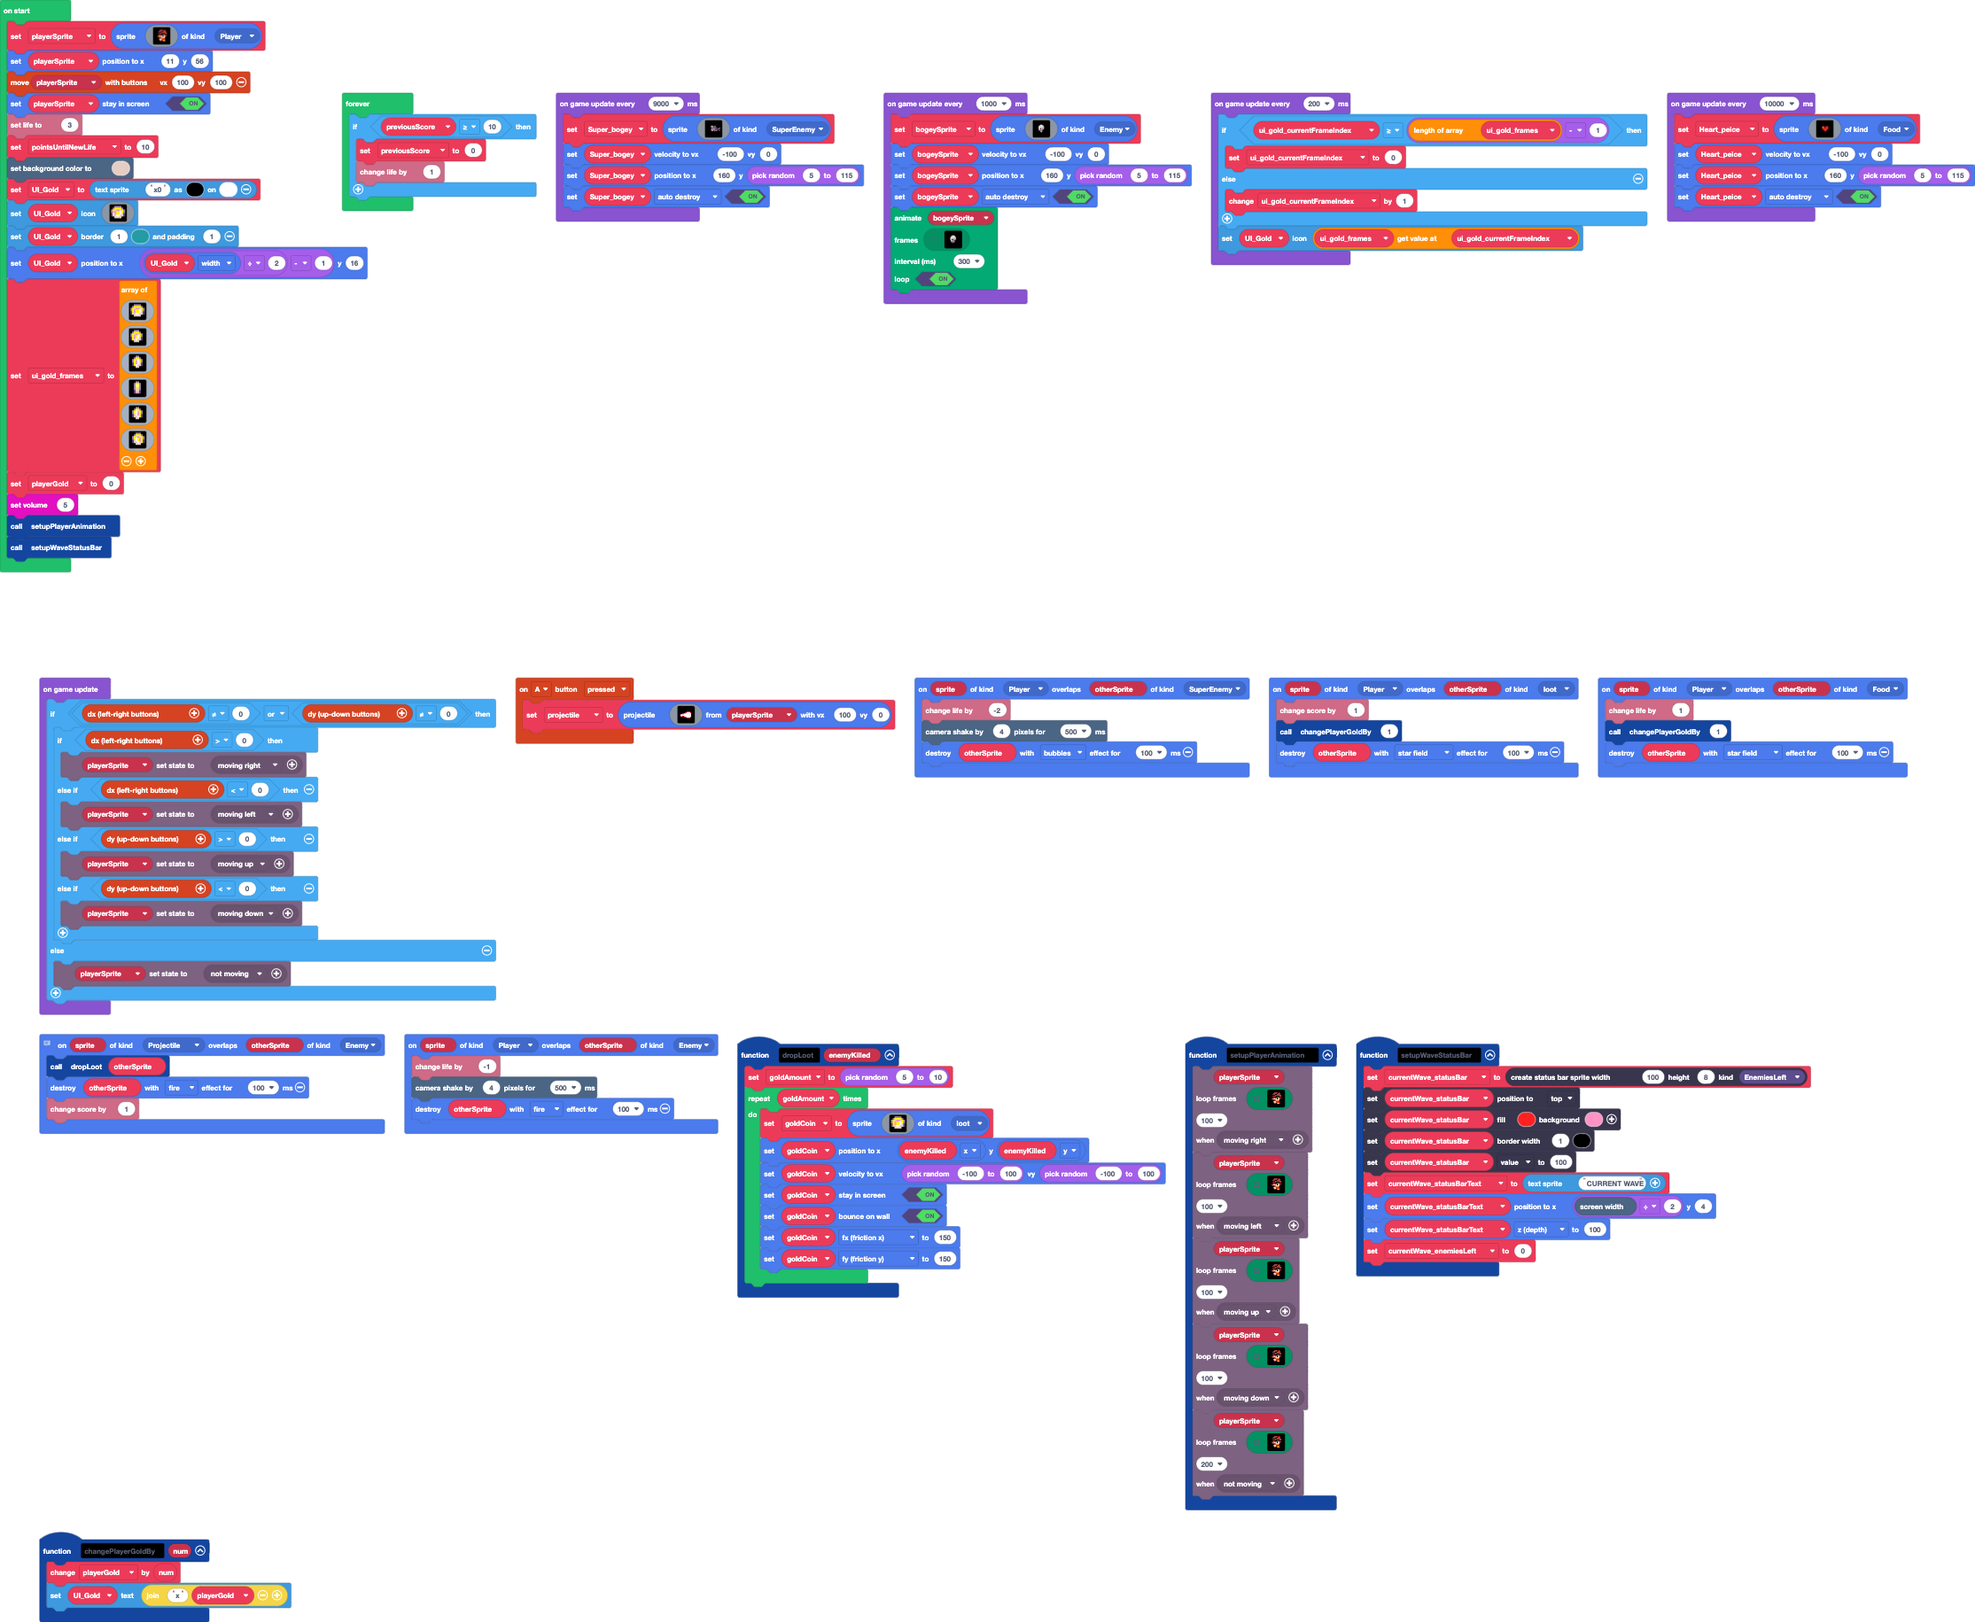
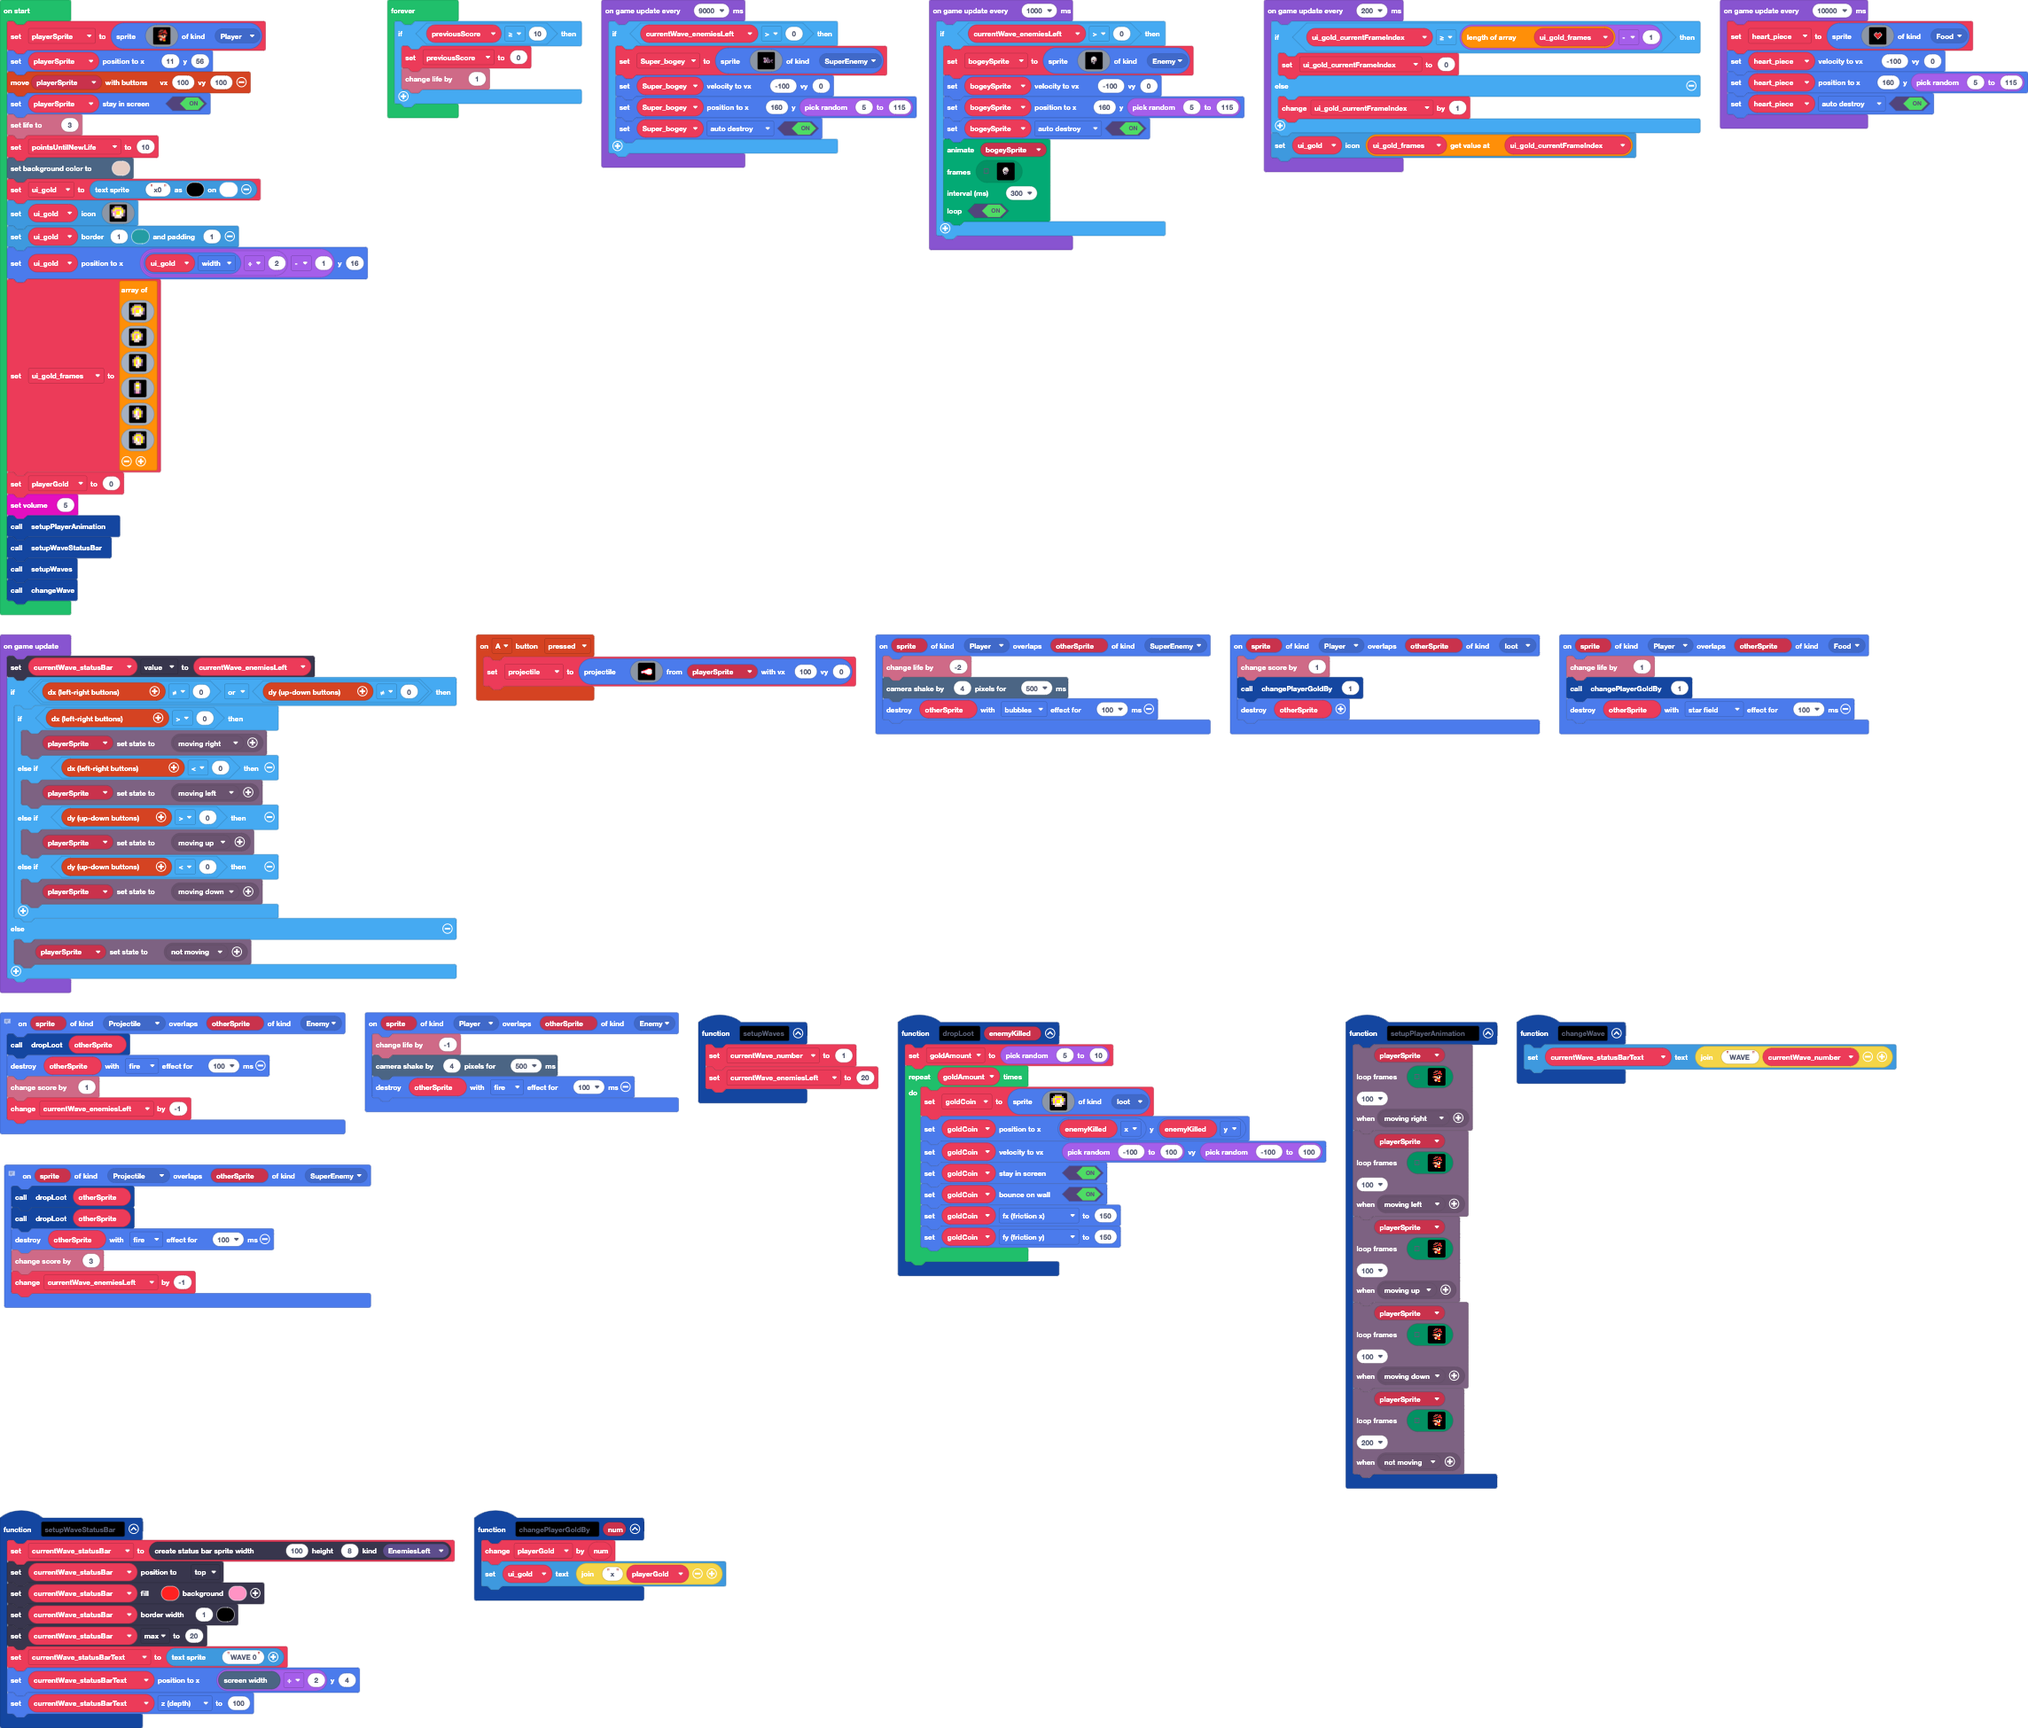
Status bar hooked up correctly

diff --git a/main.ts b/main.ts
@@ -332,16 +332,19 @@ function setupPlayerAnimation () {
     characterAnimations.rule(Predicate.NotMoving)
     )
 }
+function setupWaves () {
+    currentWave_number = 1
+    currentWave_enemiesLeft = 20
+}
 function setupWaveStatusBar () {
     currentWave_statusBar = statusbars.create(100, 8, StatusBarKind.EnemiesLeft)
     currentWave_statusBar.positionDirection(CollisionDirection.Top)
     currentWave_statusBar.setColor(2, 3)
     currentWave_statusBar.setBarBorder(1, 15)
-    currentWave_statusBar.value = 100
-    currentWave_statusBarText = textsprite.create("CURRENT WAVE")
+    currentWave_statusBar.max = 20
+    currentWave_statusBarText = textsprite.create("WAVE 0")
     currentWave_statusBarText.setPosition(scene.screenWidth() / 2, 4)
     currentWave_statusBarText.z = 100
-    currentWave_enemiesLeft = 0
 }
 controller.A.onEvent(ControllerButtonEvent.Pressed, function () {
     projectile = sprites.createProjectileFromSprite(img`
@@ -362,6 +365,14 @@ controller.A.onEvent(ControllerButtonEvent.Pressed, function () {
         . . . . . . . . . . . . . . . . 
         . . . . . . . . . . . . . . . . 
         `, playerSprite, 100, 0)
+})
+// If the player's missile hits an enemy, destroy it, drop loot, add 1 to score
+sprites.onOverlap(SpriteKind.Projectile, SpriteKind.SuperEnemy, function (sprite, otherSprite) {
+    dropLoot(otherSprite)
+    dropLoot(otherSprite)
+    otherSprite.destroy(effects.fire, 100)
+    info.changeScoreBy(3)
+    currentWave_enemiesLeft += -1
 })
 sprites.onOverlap(SpriteKind.Player, SpriteKind.SuperEnemy, function (sprite, otherSprite) {
     info.changeLifeBy(-2)
@@ -392,8 +403,11 @@ function dropLoot (enemyKilled: Sprite) {
 sprites.onOverlap(SpriteKind.Player, SpriteKind.loot, function (sprite, otherSprite) {
     info.changeScoreBy(1)
     changePlayerGoldBy(1)
-    otherSprite.destroy(effects.starField, 100)
+    otherSprite.destroy()
 })
+function changeWave () {
+    currentWave_statusBarText.setText("WAVE " + currentWave_number)
+}
 sprites.onOverlap(SpriteKind.Player, SpriteKind.Food, function (sprite, otherSprite) {
     info.changeLifeBy(1)
     changePlayerGoldBy(1)
@@ -401,20 +415,21 @@ sprites.onOverlap(SpriteKind.Player, SpriteKind.Food, function (sprite, otherSpr
 })
 function changePlayerGoldBy (num: number) {
     playerGold += num
-    UI_Gold.setText("x" + playerGold)
+    ui_gold.setText("x" + playerGold)
 }
 // If the player's missile hits an enemy, destroy it, drop loot, add 1 to score
 sprites.onOverlap(SpriteKind.Projectile, SpriteKind.Enemy, function (sprite, otherSprite) {
     dropLoot(otherSprite)
     otherSprite.destroy(effects.fire, 100)
     info.changeScoreBy(1)
+    currentWave_enemiesLeft += -1
 })
 sprites.onOverlap(SpriteKind.Player, SpriteKind.Enemy, function (sprite, otherSprite) {
     info.changeLifeBy(-1)
     scene.cameraShake(4, 500)
     otherSprite.destroy(effects.fire, 100)
 })
-let Heart_peice: Sprite = null
+let heart_piece: Sprite = null
 let ui_gold_currentFrameIndex = 0
 let previousScore = 0
 let bogeySprite: Sprite = null
@@ -422,11 +437,12 @@ let Super_bogey: Sprite = null
 let goldCoin: Sprite = null
 let goldAmount = 0
 let projectile: Sprite = null
-let currentWave_enemiesLeft = 0
 let currentWave_statusBarText: TextSprite = null
 let currentWave_statusBar: StatusBarSprite = null
+let currentWave_enemiesLeft = 0
+let currentWave_number = 0
 let playerGold = 0
-let UI_Gold: TextSprite = null
+let ui_gold: TextSprite = null
 let playerSprite: Sprite = null
 playerSprite = sprites.create(assets.image`heroWalkSideRight1`, SpriteKind.Player)
 playerSprite.setPosition(11, 56)
@@ -435,8 +451,8 @@ playerSprite.setStayInScreen(true)
 info.setLife(3)
 let pointsUntilNewLife = 10
 scene.setBackgroundColor(13)
-UI_Gold = textsprite.create("x0", 1, 15)
-UI_Gold.setIcon(img`
+ui_gold = textsprite.create("x0", 1, 15)
+ui_gold.setIcon(img`
     . . b b b b . . 
     . b 5 5 5 5 b . 
     b 5 d 3 3 d 5 b 
@@ -446,8 +462,8 @@ UI_Gold.setIcon(img`
     . f d d d d f . 
     . . f f f f . . 
     `)
-UI_Gold.setBorder(1, 6, 1)
-UI_Gold.setPosition(UI_Gold.width / 2 - 1, 16)
+ui_gold.setBorder(1, 6, 1)
+ui_gold.setPosition(ui_gold.width / 2 - 1, 16)
 let ui_gold_frames = [
 img`
     . . b b b b . . 
@@ -514,7 +530,10 @@ playerGold = 0
 music.setVolume(5)
 setupPlayerAnimation()
 setupWaveStatusBar()
+setupWaves()
+changeWave()
 game.onUpdate(function () {
+    currentWave_statusBar.value = currentWave_enemiesLeft
     if (controller.dx() != 0 || controller.dy() != 0) {
         if (controller.dx() > 0) {
             characterAnimations.setCharacterState(playerSprite, characterAnimations.rule(Predicate.MovingRight))
@@ -530,114 +549,118 @@ game.onUpdate(function () {
     }
 })
 game.onUpdateInterval(9000, function () {
-    Super_bogey = sprites.create(img`
-        ...........fffffff...ccfff..........
-        ..........fbbbbbbbffcbbbbf..........
-        ..........fbb111bbbbbffbf...........
-        ..........fb11111ffbbbbff...........
-        ..........f1cccc1ffbbbbbcff.........
-        ..........ffc1c1c1bbcbcbcccf........
-        ...........fcc3331bbbcbcbcccf..ccccc
-        ............c333c1bbbcbcbccccfcddbbc
-        ............c333c1bbbbbbbcccccddbcc.
-        ............c333c11bbbbbccccccbbcc..
-        ...........cc331c11bbbbccccccfbccf..
-        ...........cc13c11cbbbcccccbbcfccf..
-        ...........c111111cbbbfdddddc.fbbcf.
-        ............cc1111fbdbbfdddc...fbbf.
-        ..............cccfffbdbbfcc.....fbbf
-        ....................fffff........fff
-        `, SpriteKind.SuperEnemy)
-    Super_bogey.setVelocity(-100, 0)
-    Super_bogey.setPosition(160, randint(5, 115))
-    Super_bogey.setFlag(SpriteFlag.AutoDestroy, true)
+    if (currentWave_enemiesLeft > 0) {
+        Super_bogey = sprites.create(img`
+            ...........fffffff...ccfff..........
+            ..........fbbbbbbbffcbbbbf..........
+            ..........fbb111bbbbbffbf...........
+            ..........fb11111ffbbbbff...........
+            ..........f1cccc1ffbbbbbcff.........
+            ..........ffc1c1c1bbcbcbcccf........
+            ...........fcc3331bbbcbcbcccf..ccccc
+            ............c333c1bbbcbcbccccfcddbbc
+            ............c333c1bbbbbbbcccccddbcc.
+            ............c333c11bbbbbccccccbbcc..
+            ...........cc331c11bbbbccccccfbccf..
+            ...........cc13c11cbbbcccccbbcfccf..
+            ...........c111111cbbbfdddddc.fbbcf.
+            ............cc1111fbdbbfdddc...fbbf.
+            ..............cccfffbdbbfcc.....fbbf
+            ....................fffff........fff
+            `, SpriteKind.SuperEnemy)
+        Super_bogey.setVelocity(-100, 0)
+        Super_bogey.setPosition(160, randint(5, 115))
+        Super_bogey.setFlag(SpriteFlag.AutoDestroy, true)
+    }
 })
 game.onUpdateInterval(1000, function () {
-    bogeySprite = sprites.create(img`
-        ........................
-        ........................
-        ........................
-        ........................
-        ..........ffff..........
-        ........ff1111ff........
-        .......fb111111bf.......
-        .......f1111111df.......
-        ......fd1111111ddf......
-        ......fd111111dddf......
-        ......fd111ddddddf......
-        ......fd1dfbddddbf......
-        ......fbddfcdbbbcf......
-        .......f11111bbcf.......
-        .......f1b1fffff........
-        .......fbfc111bf........
-        ........ff1b1bff........
-        .........fbfbfff.f......
-        ..........ffffffff......
-        ............fffff.......
-        ........................
-        ........................
-        ........................
-        ........................
-        `, SpriteKind.Enemy)
-    bogeySprite.setVelocity(-100, 0)
-    bogeySprite.setPosition(160, randint(5, 115))
-    bogeySprite.setFlag(SpriteFlag.AutoDestroy, true)
-    animation.runImageAnimation(
-    bogeySprite,
-    [img`
-        ........................
-        ........................
-        ........................
-        ........................
-        ..........ffff..........
-        ........ff1111ff........
-        .......fb111111bf.......
-        .......f1111111df.......
-        ......fd1111111ddf......
-        ......fd111111dddf......
-        ......fd111ddddddf......
-        ......fd1dfbddddbf......
-        ......fbddfcdbbbcf......
-        .......f11111bbcf.......
-        .......f1b1fffff........
-        .......fbfc111bf........
-        ........ff1b1bff........
-        .........fbfbfff.f......
-        ..........ffffffff......
-        ............fffff.......
-        ........................
-        ........................
-        ........................
-        ........................
-        `,img`
-        ........................
-        ........................
-        ........................
-        ........................
-        .........fffff..........
-        ........f11111ff........
-        .......fb111111bf.......
-        .......f1111111dbf......
-        ......fd111111dddf......
-        ......fd11111ddddf......
-        ......fd11dddddddf......
-        ......f111dddddddf......
-        ......f11fcddddddf......
-        .....fb1111bdddbf.......
-        .....f1b1bdfcfff........
-        .....fbfbffffffff.......
-        ......fffffffffff.ff....
-        ...........ffffffff.....
-        ........f1b1bffffff.....
-        ........fbfbffffff......
-        ........................
-        ........................
-        ........................
-        ........................
-        `],
-    300,
-    true
-    )
+    if (currentWave_enemiesLeft > 0) {
+        bogeySprite = sprites.create(img`
+            ........................
+            ........................
+            ........................
+            ........................
+            ..........ffff..........
+            ........ff1111ff........
+            .......fb111111bf.......
+            .......f1111111df.......
+            ......fd1111111ddf......
+            ......fd111111dddf......
+            ......fd111ddddddf......
+            ......fd1dfbddddbf......
+            ......fbddfcdbbbcf......
+            .......f11111bbcf.......
+            .......f1b1fffff........
+            .......fbfc111bf........
+            ........ff1b1bff........
+            .........fbfbfff.f......
+            ..........ffffffff......
+            ............fffff.......
+            ........................
+            ........................
+            ........................
+            ........................
+            `, SpriteKind.Enemy)
+        bogeySprite.setVelocity(-100, 0)
+        bogeySprite.setPosition(160, randint(5, 115))
+        bogeySprite.setFlag(SpriteFlag.AutoDestroy, true)
+        animation.runImageAnimation(
+        bogeySprite,
+        [img`
+            ........................
+            ........................
+            ........................
+            ........................
+            ..........ffff..........
+            ........ff1111ff........
+            .......fb111111bf.......
+            .......f1111111df.......
+            ......fd1111111ddf......
+            ......fd111111dddf......
+            ......fd111ddddddf......
+            ......fd1dfbddddbf......
+            ......fbddfcdbbbcf......
+            .......f11111bbcf.......
+            .......f1b1fffff........
+            .......fbfc111bf........
+            ........ff1b1bff........
+            .........fbfbfff.f......
+            ..........ffffffff......
+            ............fffff.......
+            ........................
+            ........................
+            ........................
+            ........................
+            `,img`
+            ........................
+            ........................
+            ........................
+            ........................
+            .........fffff..........
+            ........f11111ff........
+            .......fb111111bf.......
+            .......f1111111dbf......
+            ......fd111111dddf......
+            ......fd11111ddddf......
+            ......fd11dddddddf......
+            ......f111dddddddf......
+            ......f11fcddddddf......
+            .....fb1111bdddbf.......
+            .....f1b1bdfcfff........
+            .....fbfbffffffff.......
+            ......fffffffffff.ff....
+            ...........ffffffff.....
+            ........f1b1bffffff.....
+            ........fbfbffffff......
+            ........................
+            ........................
+            ........................
+            ........................
+            `],
+        300,
+        true
+        )
+    }
 })
 forever(function () {
     if (previousScore >= 10) {
@@ -651,32 +674,32 @@ game.onUpdateInterval(200, function () {
     } else {
         ui_gold_currentFrameIndex += 1
     }
-    UI_Gold.setIcon(ui_gold_frames[ui_gold_currentFrameIndex])
+    ui_gold.setIcon(ui_gold_frames[ui_gold_currentFrameIndex])
 })
 game.onUpdateInterval(10000, function () {
-    Heart_peice = sprites.create(img`
+    heart_piece = sprites.create(img`
         ....................
         ....................
         ....................
         ....................
         ....................
-        ....................
-        .......22...22......
-        ......2322.2222.....
-        ......232222222.....
-        ......222222222.....
-        .......22222b2......
-        ........222b2.......
-        .........222........
-        ..........2.........
-        ....................
+        .......11...11......
+        ......1221.1221.....
+        .....12322122221....
+        .....12322222221....
+        .....12222222221....
+        ......122222b21.....
+        .......1222b21......
+        ........12221.......
+        .........121........
+        ..........1.........
         ....................
         ....................
         ....................
         ....................
         ....................
         `, SpriteKind.Food)
-    Heart_peice.setVelocity(-100, 0)
-    Heart_peice.setPosition(160, randint(5, 115))
-    Heart_peice.setFlag(SpriteFlag.AutoDestroy, true)
+    heart_piece.setVelocity(-100, 0)
+    heart_piece.setPosition(160, randint(5, 115))
+    heart_piece.setFlag(SpriteFlag.AutoDestroy, true)
 })
